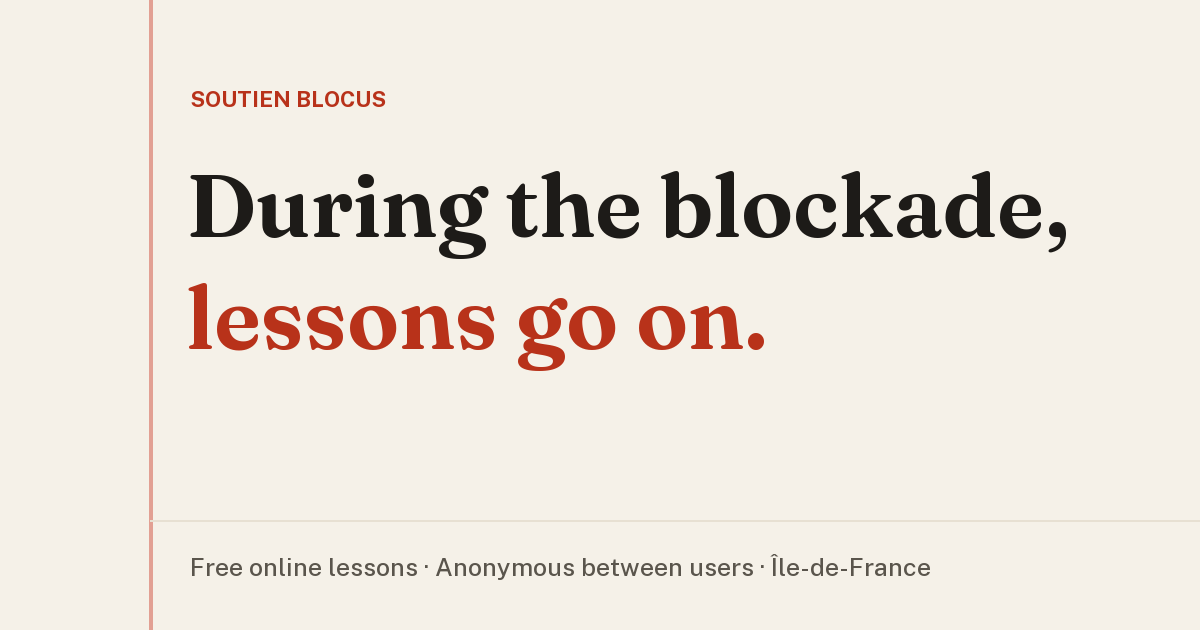
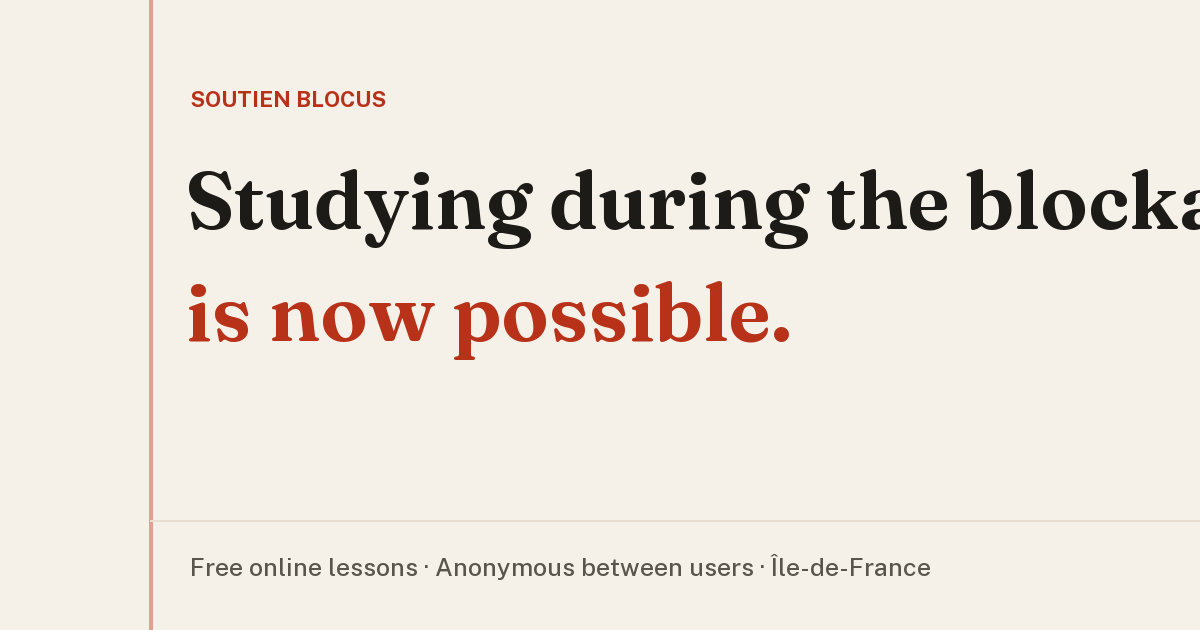
Vitrine : nouvelle accroche et animations

Changed region(s): [[0.1542, 0.2714, 1.0, 0.4222], [0.1542, 0.4524, 0.6783, 0.6032]]

diff --git a/style.css b/style.css
@@ -511,3 +511,75 @@ a:hover {
 [hidden] {
   display: none !important;
 }
+
+/* Animations : désactivées si l'utilisateur demande de réduire les mouvements */
+
+.accroche {
+  font-family: var(--police-titre);
+  font-size: clamp(1.3rem, 1rem + 1.6vw, 2rem);
+  font-weight: 500;
+  line-height: 1.25;
+  max-width: 24em;
+  margin-bottom: 1.25rem;
+}
+
+@media (prefers-reduced-motion: no-preference) {
+  @keyframes monte {
+    from { opacity: 0; transform: translateY(1.5rem); }
+    to { opacity: 1; transform: none; }
+  }
+
+  @keyframes trace {
+    from { transform: scaleY(0); }
+    to { transform: scaleY(1); }
+  }
+
+  @keyframes souligne {
+    from { background-size: 0 0.12em; }
+    to { background-size: 100% 0.12em; }
+  }
+
+  .ouverture h1 { animation: monte 0.9s cubic-bezier(0.2, 0.7, 0.2, 1) both; }
+  .ouverture .accroche { animation: monte 0.9s 0.2s cubic-bezier(0.2, 0.7, 0.2, 1) both; }
+  .ouverture .chapeau { animation: monte 0.9s 0.35s cubic-bezier(0.2, 0.7, 0.2, 1) both; }
+  .ouverture .faits { animation: monte 0.9s 0.5s cubic-bezier(0.2, 0.7, 0.2, 1) both; }
+  .ouverture .bloc__marge { animation: monte 0.9s 0.1s both; }
+
+  .ouverture h1 em {
+    background: linear-gradient(var(--accent), var(--accent)) no-repeat 0 100% / 100% 0.12em;
+    animation: souligne 1s 0.9s cubic-bezier(0.2, 0.7, 0.2, 1) both;
+  }
+
+  @media (min-width: 56rem) {
+    .bloc__contenu { position: relative; border-left-color: transparent; }
+    .bloc__contenu::before {
+      content: "";
+      position: absolute;
+      left: -2px;
+      top: 0;
+      bottom: 0;
+      width: 2px;
+      background: var(--marge);
+      transform-origin: top;
+      animation: trace 1.1s cubic-bezier(0.2, 0.7, 0.2, 1) both;
+    }
+  }
+
+  .apparait {
+    opacity: 0;
+    transform: translateY(1.25rem);
+    transition: opacity 0.7s ease, transform 0.7s cubic-bezier(0.2, 0.7, 0.2, 1);
+  }
+
+  .apparait.visible {
+    opacity: 1;
+    transform: none;
+  }
+
+  .etapes li:nth-child(2), .garanties li:nth-child(2), .contacts > div:nth-child(2) { transition-delay: 0.1s; }
+  .etapes li:nth-child(3), .garanties li:nth-child(3) { transition-delay: 0.2s; }
+  .etapes li:nth-child(4), .garanties li:nth-child(4) { transition-delay: 0.3s; }
+
+  .bouton, .langue, .bouton-theme { transition: transform 0.15s ease, border-color 0.15s ease; }
+  .bouton:hover { transform: translateY(-2px); }
+}

diff --git a/index.html b/index.html
@@ -7,17 +7,18 @@
   <title>Soutien blocus · Cours gratuits pour les lycéens</title>
   <meta name="description" content="Des bénévoles donnent des cours gratuits en visio aux lycéens pendant le blocus.">
   <meta property="og:type" content="website">
-  <meta property="og:title" content="Pendant le blocus, les cours continuent">
+  <meta property="og:title" content="Étudier en plein blocus, c'est désormais possible">
   <meta property="og:description" content="Des bénévoles donnent des cours gratuits en visio aux lycéens. Anonymes entre utilisateurs, aucune donnée inutile.">
   <meta property="og:locale" content="fr_FR">
   <meta property="og:image" content="https://soutienlyceeblocus.github.io/cours-distanciel/og.png">
   <meta property="og:url" content="https://soutienlyceeblocus.github.io/cours-distanciel/">
   <meta property="og:image:width" content="1200">
   <meta property="og:image:height" content="630">
-  <meta property="og:image:alt" content="Pendant le blocus, les cours continuent. Cours gratuits en visio, anonymes entre utilisateurs.">
+  <meta property="og:image:alt" content="Étudier en plein blocus, c'est désormais possible. Cours gratuits en visio, anonymes entre utilisateurs.">
   <meta name="twitter:card" content="summary_large_image">
   <link rel="icon" href="favicon.svg" type="image/svg+xml">
   <script src="theme.js"></script>
+  <script src="animations.js" defer></script>
   <link rel="stylesheet" href="style.css">
   <link rel="alternate" hreflang="en" href="en/index.html">
 </head>
@@ -39,7 +40,8 @@
       <section class="bloc ouverture" aria-labelledby="titre">
         <p class="bloc__marge">Lycées d'Île-de-France</p>
         <div class="bloc__contenu">
-          <h1 id="titre">Pendant le blocus, <em>les cours continuent.</em></h1>
+          <h1 id="titre">Étudier en plein blocus, <em>c'est désormais possible.</em></h1>
+          <p class="accroche">Réserve n'importe quel créneau, n'importe quelle matière, n'importe où.</p>
           <p class="chapeau">Des bénévoles donnent des cours gratuits en visio aux lycéens, de la seconde à la terminale. Pour s'inscrire, il faut un pseudo, une adresse email, son niveau et ses spécialités.</p>
           <dl class="faits">
             <div><dt>Prix</dt><dd>Gratuit</dd></div>

diff --git a/en/index.html b/en/index.html
@@ -7,17 +7,18 @@
   <title>Soutien blocus · Free lessons for high school students</title>
   <meta name="description" content="Volunteers teach free online lessons to high school students during the school blockade.">
   <meta property="og:type" content="website">
-  <meta property="og:title" content="During the blockade, lessons go on">
+  <meta property="og:title" content="Studying during the blockade is now possible">
   <meta property="og:description" content="Volunteers teach free online lessons to high school students. Anonymous between users, no unnecessary data.">
   <meta property="og:locale" content="en_GB">
   <meta property="og:image" content="https://soutienlyceeblocus.github.io/cours-distanciel/og-en.png">
   <meta property="og:url" content="https://soutienlyceeblocus.github.io/cours-distanciel/en/index.html">
   <meta property="og:image:width" content="1200">
   <meta property="og:image:height" content="630">
-  <meta property="og:image:alt" content="During the blockade, lessons go on. Free online lessons, anonymous between users.">
+  <meta property="og:image:alt" content="Studying during the blockade is now possible. Free online lessons, anonymous between users.">
   <meta name="twitter:card" content="summary_large_image">
   <link rel="icon" href="../favicon.svg" type="image/svg+xml">
   <script src="../theme.js"></script>
+  <script src="../animations.js" defer></script>
   <link rel="stylesheet" href="../style.css">
   <link rel="alternate" hreflang="fr" href="../index.html">
 </head>
@@ -39,7 +40,8 @@
       <section class="bloc ouverture" aria-labelledby="titre">
         <p class="bloc__marge">High schools across Île-de-France</p>
         <div class="bloc__contenu">
-          <h1 id="titre">During the blockade, <em>lessons go on.</em></h1>
+          <h1 id="titre">Studying during the blockade is <em>now possible.</em></h1>
+          <p class="accroche">Book any slot, any subject, from anywhere.</p>
           <p class="chapeau">Volunteers teach free online lessons to high school students, across all three years of French lycée. Signing up takes a username, an email address, your year and your specialty subjects.</p>
           <dl class="faits">
             <div><dt>Price</dt><dd>Free</dd></div>

diff --git a/animations.js b/animations.js
@@ -1,0 +1,26 @@
+// Apparition des blocs au défilement. Sans JS ou avec « réduire les animations », tout est visible.
+(function () {
+  if (!("IntersectionObserver" in window)) return;
+  if (window.matchMedia && window.matchMedia("(prefers-reduced-motion: reduce)").matches) return;
+
+  document.addEventListener("DOMContentLoaded", function () {
+    var cibles = document.querySelectorAll(
+      "main .bloc:not(.ouverture) .bloc__marge, main .bloc:not(.ouverture) .bloc__contenu > *, .etapes li, .garanties li, .contacts > div, .pied"
+    );
+    var observateur = new IntersectionObserver(
+      function (entrees) {
+        entrees.forEach(function (e) {
+          if (e.isIntersecting) {
+            e.target.classList.add("visible");
+            observateur.unobserve(e.target);
+          }
+        });
+      },
+      { rootMargin: "0px 0px -10% 0px" }
+    );
+    cibles.forEach(function (el) {
+      el.classList.add("apparait");
+      observateur.observe(el);
+    });
+  });
+})();
